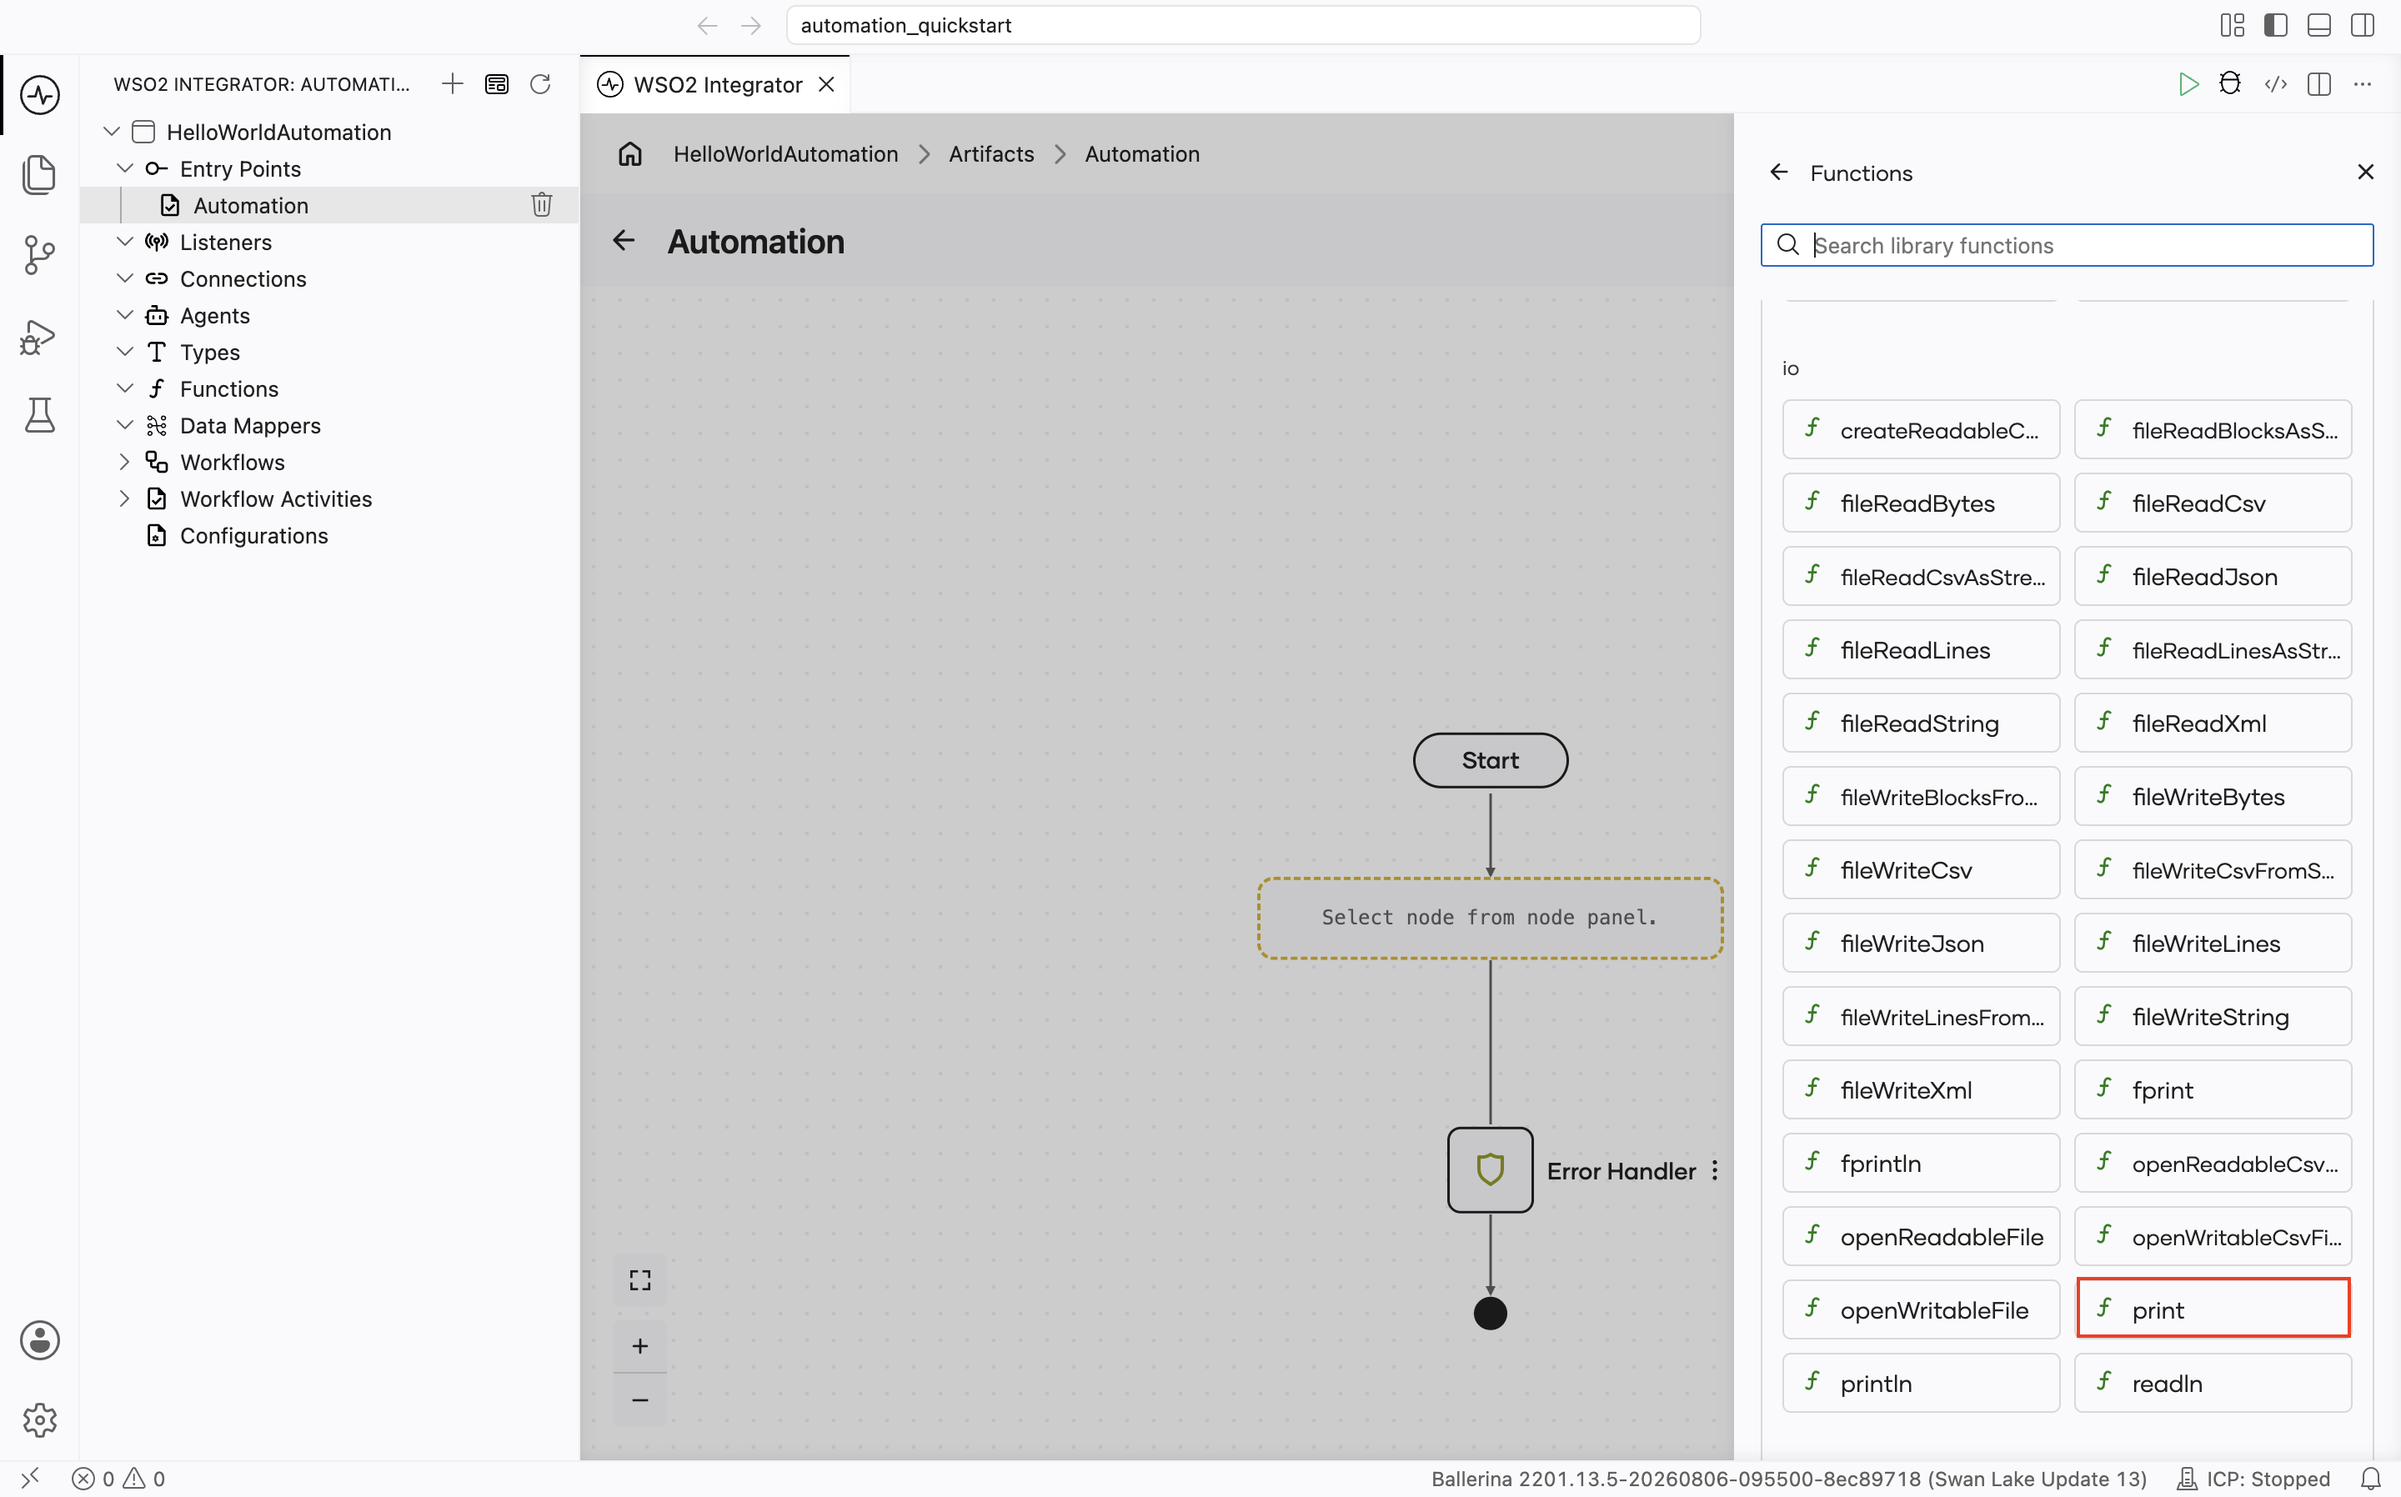
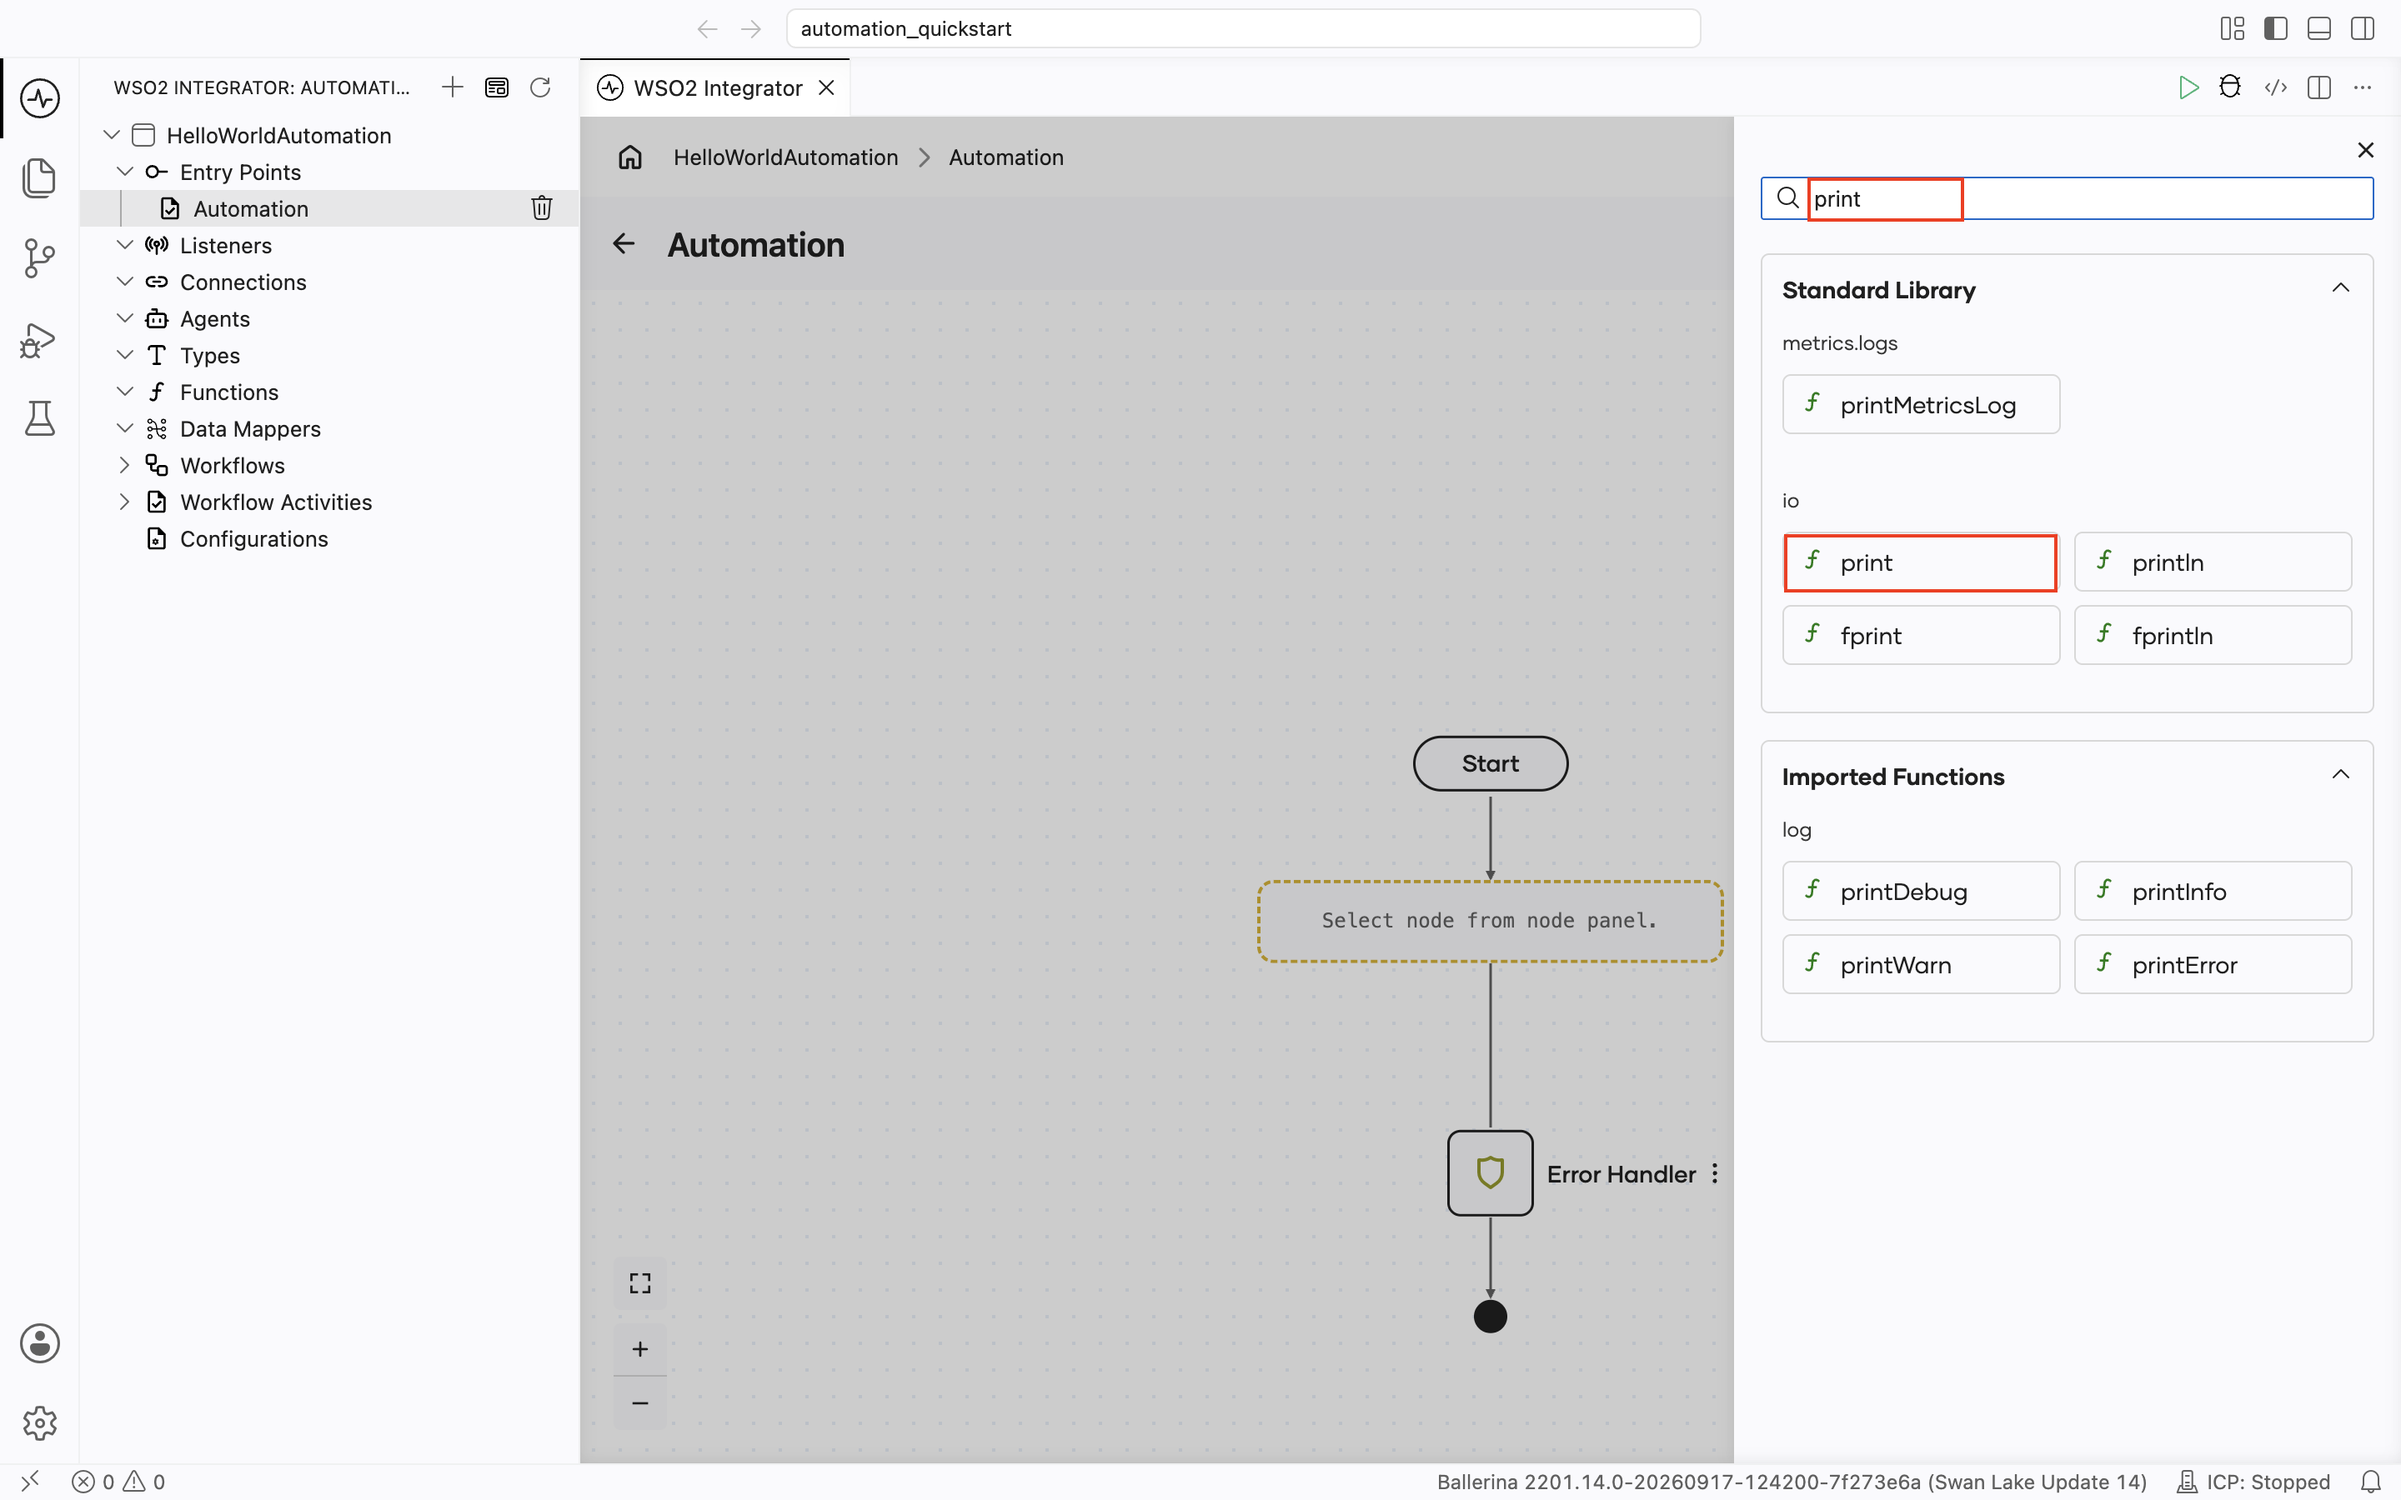
Update the step 03 3rd part of the build an automation quickstart page

diff --git a/en/docs/get-started/quickstarts/build-automation.md b/en/docs/get-started/quickstarts/build-automation.md
@@ -121,7 +121,7 @@ If you're using the cloud editor, a project is already open, so you can skip thi
       }}
    />
 
-3. Select **Print** under **io** from the functions list.
+3. In the functions panel, type `print` in the search box, then select **print** under **io** in the **Standard Library** section.
 
    <ThemedImage
       alt="Functions list with print highlighted under io"

diff --git a/en/versioned_docs/version-5.1.0/get-started/quickstarts/build-automation.md b/en/versioned_docs/version-5.1.0/get-started/quickstarts/build-automation.md
@@ -121,7 +121,7 @@ If you're using the cloud editor, a project is already open, so you can skip thi
       }}
    />
 
-3. Select **Print** under **io** from the functions list.
+3. In the functions panel, type `print` in the search box, then select **print** under **io** in the **Standard Library** section.
 
    <ThemedImage
       alt="Functions list with print highlighted under io"
